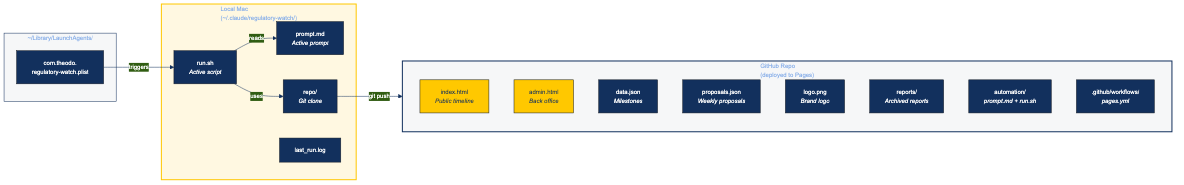
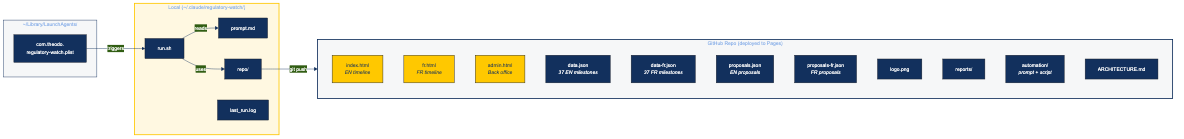
Replace ASCII diagrams with Mermaid PNGs, add bilingual-flow diagram, remove old data-flow.png, update ARCHITECTURE.md with inline image refs

Changed region(s): [[0.0, 0.0, 1.0, 0.9784]]

diff --git a/ARCHITECTURE.md b/ARCHITECTURE.md
@@ -14,78 +14,7 @@ All three subsystems share data through a Git repository hosted on GitHub, deplo
 
 ## System Architecture
 
-See diagram: `system-overview.png`
-
-```
-┌─────────────────────────────────────────────────────────────┐
-│                    macOS (local machine)                     │
-│                                                             │
-│  launchd Agent (com.theodo.regulatory-watch)                │
-│  Triggers: Every Friday 08:00 CET                           │
-│  Runs: ~/.claude/regulatory-watch/run.sh                    │
-│                     │                                       │
-│                     ▼                                       │
-│  Claude Code CLI (--print --dangerously-skip-permissions)   │
-│  Prompt: ~/.claude/regulatory-watch/prompt.md               │
-│                                                             │
-│  Steps 1-3: WebSearch + WebFetch (12 sources, 21 queries)   │
-│  Step 4:    Build HTML email → gws gmail → 5 recipients     │
-│  Step 5a:   git pull repo                                   │
-│  Step 5b-d: Read data.json, generate proposals.json (EN)    │
-│  Step 5e:   Generate proposals-fr.json (FR translations)    │
-│  Step 5f:   git push proposals.json + proposals-fr.json     │
-└────────────────────────┬────────────────────────────────────┘
-                         │ git push
-                         ▼
-┌─────────────────────────────────────────────────────────────┐
-│  GitHub: nicolasbertrand-QARA/Compliance-timeline           │
-│  ├── index.html         (EN timeline)                       │
-│  ├── fr.html            (FR timeline)                       │
-│  ├── admin.html         (back office, manages both langs)   │
-│  ├── data.json          (EN milestones, 37 cards)           │
-│  ├── data-fr.json       (FR milestones, 37 cards)           │
-│  ├── proposals.json     (EN proposals from cron)            │
-│  ├── proposals-fr.json  (FR proposals from cron)            │
-│  ├── logo.png           (Theodo HealthTech logo)            │
-│  ├── *.png              (Mermaid architecture diagrams)     │
-│  ├── reports/           (archived markdown reports)         │
-│  ├── automation/        (cron prompt + shell script)        │
-│  └── .github/workflows/pages.yml                            │
-│                                                             │
-│  GitHub Actions: Deploy to Pages on push to main            │
-└────────────────────────┬────────────────────────────────────┘
-                         │
-                         ▼
-┌─────────────────────────────────────────────────────────────┐
-│  GitHub Pages: nicolasbertrand-qara.github.io/              │
-│                Compliance-timeline/                          │
-│  ├── /             → EN timeline                            │
-│  ├── /fr.html      → FR timeline                            │
-│  ├── /admin.html   → back office                            │
-│  ├── /data.json        ← fetched by EN + admin              │
-│  ├── /data-fr.json     ← fetched by FR                      │
-│  ├── /proposals.json   ← fetched by EN + admin              │
-│  └── /proposals-fr.json← fetched by FR                      │
-└────────────────────────┬────────────────────────────────────┘
-                         │
-                         ▼
-┌─────────────────────────────────────────────────────────────┐
-│  User's Browser — localStorage (shared origin)              │
-│                                                             │
-│  Shared across EN + FR (approval is "two birds one stone"): │
-│  ├── rw_hidden_cards         (card IDs hidden on both)      │
-│  ├── rw_approved_proposals   (approved proposal IDs)        │
-│  ├── rw_rejected_proposals   (rejected proposal IDs)        │
-│  └── rw_deleted_cards        (deleted card IDs)             │
-│                                                             │
-│  Language-specific (separate comment per language):          │
-│  ├── rw_comments             (EN cardId → comment)          │
-│  └── rw_comments_fr          (FR cardId → comment)          │
-│                                                             │
-│  Migration flag:                                            │
-│  └── rw_migrated_to_stable_ids (version number)             │
-└─────────────────────────────────────────────────────────────┘
-```
+![System Architecture](system-overview.png)
 
 ---
 
@@ -104,19 +33,9 @@ The EN and FR timelines are parallel but share a single admin workflow:
 - **Proposal files** — `proposals.json` (English) and `proposals-fr.json` (French), same proposal IDs and card IDs, different title/description/date labels
 - **Comments** — `rw_comments` (EN) and `rw_comments_fr` (FR), managed via two text inputs per row in the back office
 
-### How approval works across languages
+### How it all connects
 
-```
-User approves proposal "proposal-2026-04-25-001" in admin
-         │
-         ├──→ EN timeline loads proposals.json
-         │    finds "proposal-2026-04-25-001"
-         │    merges the English card into the view
-         │
-         └──→ FR timeline loads proposals-fr.json
-              finds "proposal-2026-04-25-001" (same ID!)
-              merges the French card into the view
-```
+![Bilingual Data Flow](bilingual-flow.png)
 
 ### Stable ID Convention
 
@@ -147,6 +66,8 @@ localStorage(rw_comments) → EN comments
 
 Displayed = (base - deleted + approved_adds/updates) - hidden
 ```
+
+![Merge Logic](merge-logic.png)
 
 **Key features:**
 - **3-state topic filters** (sidebar, sticky on scroll):
@@ -197,6 +118,8 @@ All admin decisions (hide, approve, reject, delete) are shared via the same loca
 - UPDATE proposals show a diff view (old → new for each changed field)
 - Each proposal includes a `reason` field explaining why the cron suggested it
 - One approval/rejection applies to both EN and FR timelines
+
+![Proposal Lifecycle](proposal-lifecycle.png)
 
 #### B. Milestones Table
 - Toggle switches to show/hide each card (applies to both languages)
@@ -382,43 +305,17 @@ Both timelines respect the same hide/delete decisions
 
 ## File Map
 
-```
-Repository: nicolasbertrand-QARA/Compliance-timeline
-├── index.html                     # EN timeline
-├── fr.html                        # FR timeline
-├── admin.html                     # Back office (manages both languages)
-├── data.json                      # 37 EN milestones (source of truth)
-├── data-fr.json                   # 37 FR milestones (same IDs as data.json)
-├── proposals.json                 # EN proposals (updated weekly by cron)
-├── proposals-fr.json              # FR proposals (same IDs as proposals.json)
-├── logo.png                       # Theodo HealthTech logo (transparent bg)
-├── system-overview.png            # Architecture diagram (Mermaid)
-├── data-flow.png                  # Data flow diagram (Mermaid)
-├── merge-logic.png                # Timeline merge logic diagram (Mermaid)
-├── proposal-lifecycle.png         # Proposal state diagram (Mermaid)
-├── file-map.png                   # File map diagram (Mermaid)
-├── ARCHITECTURE.md                # This document
-├── reports/
-│   └── April_2026.md              # First full regulatory watch report
-├── automation/
-│   ├── weekly-report-prompt.md    # Claude CLI prompt (copy of active prompt)
-│   └── run.sh                     # Shell wrapper (copy of active script)
-└── .github/
-    └── workflows/
-        └── pages.yml              # GitHub Pages deployment
+![File Map](file-map.png)
 
-Local only (not in repo):
-~/.claude/regulatory-watch/
-├── prompt.md                      # Active prompt (source of truth for cron)
-├── run.sh                         # Active shell script
-├── repo/                          # Persistent local git clone
-├── last_run.log                   # Latest run output
-├── launchd_stdout.log             # launchd stdout
-└── launchd_stderr.log             # launchd stderr
+**Local only (not in repo):**
 
-~/Library/LaunchAgents/
-└── com.theodo.regulatory-watch.plist  # launchd schedule definition
-```
+| Path | Purpose |
+|------|---------|
+| `~/.claude/regulatory-watch/prompt.md` | Active prompt (source of truth for cron) |
+| `~/.claude/regulatory-watch/run.sh` | Active shell script |
+| `~/.claude/regulatory-watch/repo/` | Persistent local git clone |
+| `~/.claude/regulatory-watch/last_run.log` | Latest run output |
+| `~/Library/LaunchAgents/com.theodo.regulatory-watch.plist` | launchd schedule definition |
 
 ---
 